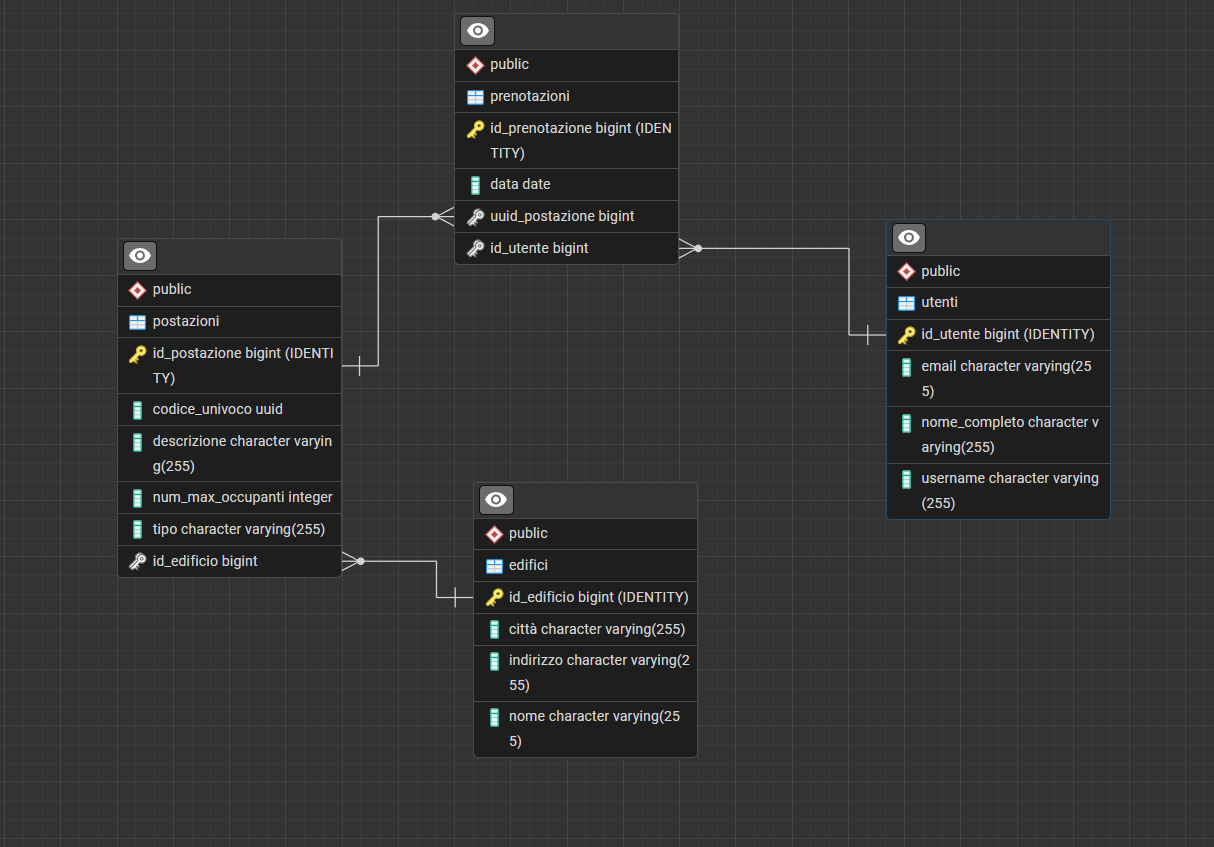
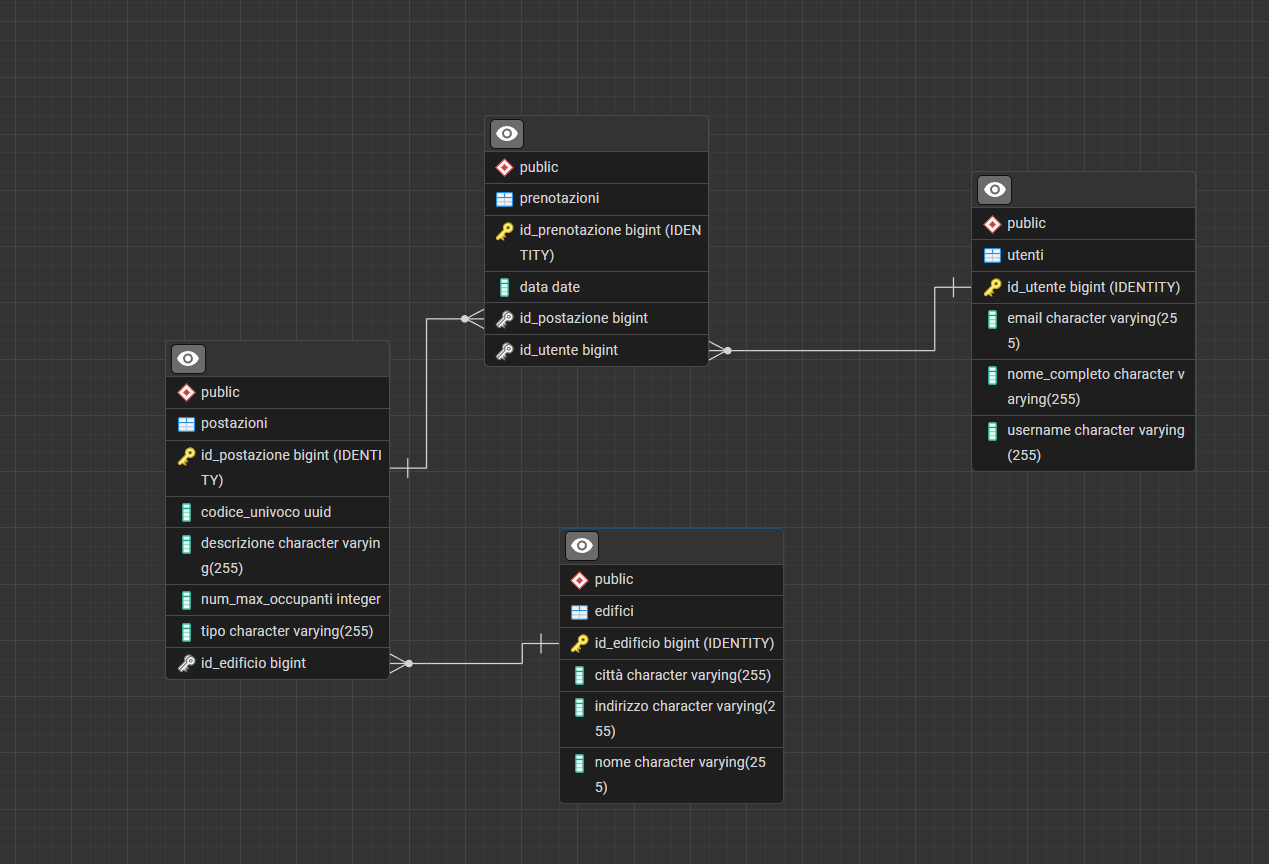
try methods

diff --git a/src/main/java/projectu2w1d5/bettapcq/runners/Runner.java b/src/main/java/projectu2w1d5/bettapcq/runners/Runner.java
@@ -1,25 +1,31 @@
 package projectu2w1d5.bettapcq.runners;
 
 import com.github.javafaker.Faker;
+import lombok.extern.slf4j.Slf4j;
 import org.springframework.boot.CommandLineRunner;
 import org.springframework.stereotype.Component;
+import projectu2w1d5.bettapcq.exceptions.NotFoundException;
 import projectu2w1d5.bettapcq.services.EdificiService;
 import projectu2w1d5.bettapcq.services.PostazioniService;
+import projectu2w1d5.bettapcq.services.PrenotazioniService;
 import projectu2w1d5.bettapcq.services.UtentiService;
 
 import java.util.Locale;
 
 @Component
+@Slf4j
 public class Runner implements CommandLineRunner {
 
     private final EdificiService edificiService;
     private final UtentiService utentiService;
     private final PostazioniService postazioniService;
+    private final PrenotazioniService prenotazioniService;
 
-    public Runner(EdificiService edificiService, UtentiService utentiService, PostazioniService postazioniService) {
+    public Runner(EdificiService edificiService, UtentiService utentiService, PostazioniService postazioniService, PrenotazioniService prenotazioniService) {
         this.edificiService = edificiService;
         this.utentiService = utentiService;
         this.postazioniService = postazioniService;
+        this.prenotazioniService = prenotazioniService;
     }
 
     @Override
@@ -41,6 +47,21 @@ public class Runner implements CommandLineRunner {
 //        postazioniService.addPostazione(faker.number().numberBetween(1, 7), UUID.fromString(uuid2), TipoPostazione.PRIVATO, faker.lorem().characters(30), faker.number().numberBetween(1, 4));
 //        postazioniService.addPostazione(faker.number().numberBetween(1, 7), UUID.fromString(uuid3), TipoPostazione.SALA_RIUNIONI, faker.lorem().characters(30), faker.number().numberBetween(1, 20));
 
+        try {
+//       ok     Edificio edificioFromDB = edificiService.findById(3L);
+//            log.info(edificioFromDB.toString());
+//       ok    Utente utenteFromDB = utentiService.findById(3L);
+//            log.info(utenteFromDB.toString());
+//       ok     Postazione postazioneFromDB = postazioniService.findById(4L);
+//            log.info(postazioneFromDB.toString());
+//       ok     List<Postazione> listaPostazioniTipoCittà = postazioniService.findByTipoAndCittà(TipoPostazione.PRIVATO, "Barbieri umbro");
+//            listaPostazioniTipoCittà.forEach(postazione -> log.info(postazione.toString()));
+
+
+        } catch (NotFoundException ex) {
+            log.error(ex.getMessage());
+
+        }
     }
 }
 

diff --git a/src/main/java/projectu2w1d5/bettapcq/services/PrenotazioniService.java b/src/main/java/projectu2w1d5/bettapcq/services/PrenotazioniService.java
@@ -1,7 +1,46 @@
 package projectu2w1d5.bettapcq.services;
 
+import lombok.extern.slf4j.Slf4j;
 import org.springframework.stereotype.Service;
+import projectu2w1d5.bettapcq.entities.Postazione;
+import projectu2w1d5.bettapcq.entities.Prenotazione;
+import projectu2w1d5.bettapcq.entities.Utente;
+import projectu2w1d5.bettapcq.exceptions.NotFoundException;
+import projectu2w1d5.bettapcq.repositories.PrenotazioniRepository;
+
+import java.time.LocalDate;
 
 @Service
+@Slf4j
 public class PrenotazioniService {
+
+    private final PrenotazioniRepository prenotazioniRepository;
+    private final PostazioniService postazioniService;
+    private final UtentiService utentiService;
+
+    public PrenotazioniService(PrenotazioniRepository prenotazioniRepository, PostazioniService postazioniService, UtentiService utentiService) {
+        this.prenotazioniRepository = prenotazioniRepository;
+        this.postazioniService = postazioniService;
+        this.utentiService = utentiService;
+    }
+
+    public void addPrenotazione(Long idUtente, Long idPostazione, LocalDate data) {
+
+        //check utente e postazione in DB:
+        Utente utenteFromDB = utentiService.findById(idUtente);
+        Postazione postazioneFromDB = postazioniService.findById(idPostazione);
+        if (utenteFromDB == null) throw new NotFoundException("Utente non trovato");
+        if (postazioneFromDB == null) throw new NotFoundException("Postazione non trovata");
+
+
+        //Prenotazione(Utente utente, Postazione postazione, LocalDate data)
+        Prenotazione nuovaPrenotazione = new Prenotazione(utenteFromDB, postazioneFromDB, data);
+
+
+        prenotazioniRepository.save(nuovaPrenotazione);
+
+        log.info("Prenotazione salvata con id: " + nuovaPrenotazione.getIdPrenotazione());
+    }
+
+
 }

diff --git a/src/main/java/projectu2w1d5/bettapcq/services/PostazioniService.java b/src/main/java/projectu2w1d5/bettapcq/services/PostazioniService.java
@@ -5,9 +5,11 @@ import org.springframework.stereotype.Service;
 import projectu2w1d5.bettapcq.entities.Edificio;
 import projectu2w1d5.bettapcq.entities.Postazione;
 import projectu2w1d5.bettapcq.entities.TipoPostazione;
+import projectu2w1d5.bettapcq.exceptions.NotFoundException;
 import projectu2w1d5.bettapcq.exceptions.ValidationException;
 import projectu2w1d5.bettapcq.repositories.PostazioniRepository;
 
+import java.util.List;
 import java.util.UUID;
 
 @Service
@@ -31,5 +33,15 @@ public class PostazioniService {
 
         this.postazioniRepository.save(nuovaPostazione);
         log.info("La postazione è stata salvata con id: " + nuovaPostazione.getIdPostazione());
+    }
+
+    public Postazione findById(long idPostazione) {
+
+        return postazioniRepository.findById(idPostazione).orElseThrow(() -> new NotFoundException("Postazione non trovata"));
+    }
+
+    public List<Postazione> findByTipoAndCittà(TipoPostazione tipo, String città) {
+        return postazioniRepository.findByTipoAndCittà(tipo, città);
+
     }
 }

diff --git a/src/main/java/projectu2w1d5/bettapcq/repositories/PostazioniRepository.java b/src/main/java/projectu2w1d5/bettapcq/repositories/PostazioniRepository.java
@@ -1,12 +1,22 @@
 package projectu2w1d5.bettapcq.repositories;
 
 import org.springframework.data.jpa.repository.JpaRepository;
+import org.springframework.data.jpa.repository.Query;
 import org.springframework.stereotype.Repository;
 import projectu2w1d5.bettapcq.entities.Postazione;
+import projectu2w1d5.bettapcq.entities.TipoPostazione;
 
+import java.util.List;
 import java.util.UUID;
 
 @Repository
-public interface PostazioniRepository extends JpaRepository<Postazione, UUID> {
+public interface PostazioniRepository extends JpaRepository<Postazione, Long> {
     boolean existsByCu(UUID cu);
+
+
+    // https://docs.spring.io/spring-data/jpa/reference/jpa/query-methods.html
+
+    @Query("SELECT p FROM Postazione p WHERE p.tipo = :tipo AND p.edificio.città = :città")
+    List<Postazione> findByTipoAndCittà(TipoPostazione tipo, String città);
+
 }

diff --git a/src/main/java/projectu2w1d5/bettapcq/repositories/PrenotazioniRepository.java b/src/main/java/projectu2w1d5/bettapcq/repositories/PrenotazioniRepository.java
@@ -1,7 +1,13 @@
 package projectu2w1d5.bettapcq.repositories;
 
 import org.springframework.data.jpa.repository.JpaRepository;
+import org.springframework.stereotype.Repository;
+import projectu2w1d5.bettapcq.entities.Postazione;
 import projectu2w1d5.bettapcq.entities.Prenotazione;
 
+import java.time.LocalDate;
+
+@Repository
 public interface PrenotazioniRepository extends JpaRepository<Prenotazione, Long> {
+    boolean existsByDataAndPostazione(LocalDate data, Postazione postazione);
 }

diff --git a/src/main/java/projectu2w1d5/bettapcq/repositories/UtentiRepository.java b/src/main/java/projectu2w1d5/bettapcq/repositories/UtentiRepository.java
@@ -1,8 +1,10 @@
 package projectu2w1d5.bettapcq.repositories;
 
 import org.springframework.data.jpa.repository.JpaRepository;
+import org.springframework.stereotype.Repository;
 import projectu2w1d5.bettapcq.entities.Utente;
 
+@Repository
 public interface UtentiRepository extends JpaRepository<Utente, Long> {
     boolean existsByUsername(String username);
 }

diff --git a/src/main/java/projectu2w1d5/bettapcq/entities/Postazione.java b/src/main/java/projectu2w1d5/bettapcq/entities/Postazione.java
@@ -17,6 +17,7 @@ public class Postazione {
     @Setter(AccessLevel.NONE)
     @Column(name = "id_postazione")
     private Long idPostazione;
+    
     @Column(name = "codice_univoco", nullable = false)
     private UUID cu;
     @Enumerated(EnumType.STRING)

diff --git a/src/main/java/projectu2w1d5/bettapcq/entities/Prenotazione.java b/src/main/java/projectu2w1d5/bettapcq/entities/Prenotazione.java
@@ -22,7 +22,7 @@ public class Prenotazione {
     private Utente utente;
 
     @ManyToOne
-    @JoinColumn(name = "uuid_postazione")
+    @JoinColumn(name = "id_postazione")
     private Postazione postazione;
 
     private LocalDate data;

diff --git a/src/main/java/projectu2w1d5/bettapcq/repositories/EdificiRepository.java b/src/main/java/projectu2w1d5/bettapcq/repositories/EdificiRepository.java
@@ -10,4 +10,5 @@ public interface EdificiRepository extends JpaRepository<Edificio, Long> {
 
     boolean existsByIdEdificio(Long idEdificio);
 
+
 }
